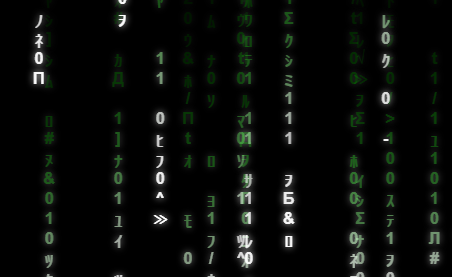
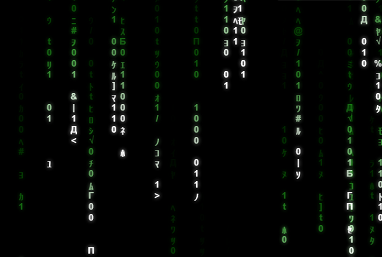
matrix screensaver color selection introduced

diff --git a/matrix/style.scss b/matrix/style.scss
@@ -1,34 +1,77 @@
+$green: #09ff00;
+$purple: #d400ff;
+$blue: #00e1ff;
+
 body {
     position: relative;
     background-color: #000000;
 }
 
 .rangeContainer {
-    // display: grid;
-    // grid-template-columns: 80px 150px;
-    // grid-template-rows: 1fr 1fr;
-    background-color: #ffffff30;
-    padding: 5px 20px;
-    display: flex;
+    display: grid;
+    grid-template-columns: 100px 1fr;
+    grid-template-rows: 1fr 1fr;
     align-items: center;
+    // justify-content: center;
+    background-color: #ffffff30;
+    padding: 5px 15px 5px 0;
+    // padding-right: 15px;
+    // display: flex;
+    // align-items: center;
 
     position: absolute;
     top: 10px;
     left: 10px;
     z-index: 10;
-    .paramName {
+    label {
+        font-size: 0.9rem;
         color: white;
-        margin-right: 10px;
+        // margin-right: 10px;
+        text-align: center;
     }
     .flex {
         display: flex;
-        align-items: center;
+        // align-items: center;
+        justify-content: center;
+        margin: 5px 0;
         img {
             width: 15px;
         }
-        input {
+        .color1, .color2, .color3 {
+            width: 10px;
+            height: 10px;
+
+            margin: 0 10px;
             // width: 100%;
+
+            position: relative;
+
+            border-radius: 2px;
+
+            &:hover {
+                box-shadow: 0px 0px 10px #ffffff;
+            }
+
+            &:active {
+                top: 2px;
+                box-shadow: 0px 0px 5px #ffffff;
+            }
         }
+
+        .color1 {
+            background-color: $green;
+            box-shadow: 0px 0px 5px $green;
+            outline: 2px solid #ffffffaa;
+        }
+        .color2 {
+            background-color: $purple;
+            box-shadow: 0px 0px 5px $purple;
+        }
+        .color3 {
+            background-color: $blue;
+            box-shadow: 0px 0px 5px $blue;
+        }
+        
     }
 }
 
@@ -55,26 +98,58 @@ body {
                 opacity: 0;
             }
         }
-        @keyframes color {
+        @keyframes color1 {
             0% {
                 color: #ffffff;
+                text-shadow: 0px 0px 7px #ffffff;
             }
             50% {
-                color: #09ff00;
+                color: $green;
+                text-shadow: 0px 0px 7px $green;
             }
             100% {
-                color: #09ff00;
+                color: $green;
+                text-shadow: 0px 0px 7px $green;
+            }
+        }
+        @keyframes color2 {
+            0% {
+                color: #ffffff;
+                text-shadow: 0px 0px 7px #ffffff;
+            }
+            50% {
+                color: $purple;
+                text-shadow: 0px 0px 7px $purple;
+            }
+            100% {
+                color: $purple;
+                text-shadow: 0px 0px 7px $purple;
+            }
+        }
+        @keyframes color3 {
+            0% {
+                color: #ffffff;
+                text-shadow: 0px 0px 7px #ffffff;
+            }
+            50% {
+                color: $blue;
+                text-shadow: 0px 0px 7px $blue;
+            }
+            100% {
+                color: $blue;
+                text-shadow: 0px 0px 7px $blue;
             }
         }
         
         color: #ffffff;
         height: 20px;
-        animation-name: fade, color;
+        // animation-name: fade, color1;
         animation-duration: 3s;
         opacity: 0;
         text-align: center;
 
         font-weight: bold;
+        // font-size: 1.2rem;
 
         text-shadow: 0px 0px 7px #ffffff;
         // animation-fill-mode: both;

diff --git a/matrix/style.css b/matrix/style.css
@@ -4,26 +4,58 @@ body {
 }
 
 .rangeContainer {
-  background-color: rgba(255, 255, 255, 0.1882352941);
-  padding: 5px 20px;
-  display: flex;
+  display: grid;
+  grid-template-columns: 100px 1fr;
+  grid-template-rows: 1fr 1fr;
   align-items: center;
+  background-color: rgba(255, 255, 255, 0.1882352941);
+  padding: 5px 15px 5px 0;
   position: absolute;
   top: 10px;
   left: 10px;
   z-index: 10;
 }
-.rangeContainer .paramName {
+.rangeContainer label {
+  font-size: 0.9rem;
   color: white;
-  margin-right: 10px;
+  text-align: center;
 }
 .rangeContainer .flex {
   display: flex;
-  align-items: center;
+  justify-content: center;
+  margin: 5px 0;
 }
 .rangeContainer .flex img {
   width: 15px;
 }
+.rangeContainer .flex .color1, .rangeContainer .flex .color2, .rangeContainer .flex .color3 {
+  width: 10px;
+  height: 10px;
+  margin: 0 10px;
+  position: relative;
+  border-radius: 2px;
+}
+.rangeContainer .flex .color1:hover, .rangeContainer .flex .color2:hover, .rangeContainer .flex .color3:hover {
+  box-shadow: 0px 0px 10px #ffffff;
+}
+.rangeContainer .flex .color1:active, .rangeContainer .flex .color2:active, .rangeContainer .flex .color3:active {
+  top: 2px;
+  box-shadow: 0px 0px 5px #ffffff;
+}
+.rangeContainer .flex .color1 {
+  background-color: #09ff00;
+  box-shadow: 0px 0px 5px #09ff00;
+  outline: 2px solid rgba(255, 255, 255, 0.6666666667);
+}
+.rangeContainer .flex .color2 {
+  background-color: #d400ff;
+  box-shadow: 0px 0px 5px #d400ff;
+}
+.rangeContainer .flex .color3 {
+  background-color: #00e1ff;
+  box-shadow: 0px 0px 5px #00e1ff;
+}
+
 .lettersDiv {
   width: 20px;
   display: flex;
@@ -34,7 +66,6 @@ body {
 .lettersDiv span {
   color: #ffffff;
   height: 20px;
-  animation-name: fade, color;
   animation-duration: 3s;
   opacity: 0;
   text-align: center;
@@ -49,14 +80,45 @@ body {
     opacity: 0;
   }
 }
-@keyframes color {
+@keyframes color1 {
   0% {
     color: #ffffff;
+    text-shadow: 0px 0px 7px #ffffff;
   }
   50% {
     color: #09ff00;
+    text-shadow: 0px 0px 7px #09ff00;
   }
   100% {
     color: #09ff00;
+    text-shadow: 0px 0px 7px #09ff00;
+  }
+}
+@keyframes color2 {
+  0% {
+    color: #ffffff;
+    text-shadow: 0px 0px 7px #ffffff;
+  }
+  50% {
+    color: #d400ff;
+    text-shadow: 0px 0px 7px #d400ff;
+  }
+  100% {
+    color: #d400ff;
+    text-shadow: 0px 0px 7px #d400ff;
+  }
+}
+@keyframes color3 {
+  0% {
+    color: #ffffff;
+    text-shadow: 0px 0px 7px #ffffff;
+  }
+  50% {
+    color: #00e1ff;
+    text-shadow: 0px 0px 7px #00e1ff;
+  }
+  100% {
+    color: #00e1ff;
+    text-shadow: 0px 0px 7px #00e1ff;
   }
 }/*# sourceMappingURL=style.css.map */

diff --git a/matrix/main.js b/matrix/main.js
@@ -1,8 +1,9 @@
-const body=document.querySelector('body')
-const amount=document.querySelector('input[name="amount"]');
+const body = document.querySelector('body')
+const amount = document.querySelector('input[name="amount"]');
+const colorButtons = document.querySelectorAll('.flex div');
 
 const iterateNum = window.innerHeight/20+2
-
+let colorNum = 'color1'
 let interval;
 
 fetch('./letters.json')
@@ -11,25 +12,23 @@ fetch('./letters.json')
 })
 .then((data)=>{
 
-    const letters=[...data.data]
+    const letters = [...data.data]
 
-    const animationStart=(sec)=>{
+    const animationStart = (sec, color)=>{
 
-        interval=setInterval(()=>{
+        interval = setInterval(()=>{
         
-            let spans=''
+            let spans = ''
             
             for(let i=0; i<=iterateNum; i++){
                 const rand = Math.ceil(100*Math.random())
                 const rand2 = Math.random()
-    
                 const mainText = rand2<0.2? 1:rand2<0.4? 0:letters[rand]? letters[rand]:''
-    
                 const alterText = letters[rand-25]? letters[rand-25]:'t'
     
                 spans +=
                 `<span
-                    style='animation-delay:${i/10}s'
+                    style='animation-delay:${i/10}s; animation-name: fade, ${color};'
                     ${rand%3==0 &&
                         `onanimationstart='((e)=>{setTimeout(()=>{e.target.innerText="`+alterText+`"},${rand2*1000})})(event)`
                     }
@@ -54,8 +53,22 @@ fetch('./letters.json')
 
     amount.onchange=(e)=>{
         clearInterval(interval)
-        animationStart(1000-900*e.target.value)
+        animationStart(1000-900*e.target.value, colorNum)
     }
 
-    animationStart(550)
+    colorButtons.forEach(btn=>{
+        btn.onclick=(e)=>{
+            colorButtons.forEach(btn2=>{
+                btn2.style.pointerEvents='auto'
+                btn2.style.outline='none'
+            })
+            e.target.style.pointerEvents='none'
+            e.target.style.outline='2px solid #ffffffaa'
+            colorNum = e.target.classList[0]
+            clearInterval(interval)
+            animationStart(1000-900*amount.value, colorNum)
+        }
+    })
+
+    animationStart(1000-900*amount.value, colorNum)
 })

diff --git a/matrix/index.html b/matrix/index.html
@@ -15,11 +15,20 @@
         
         <div class="rangeContainer">
 
-            <div class="paramName">Amount:</div>
+            <label>Amount:</label>
+
             <div class="flex">
                 <img src="../img/minus.svg"/>
                 <input type="range" min="0" max="1" value="0.5" step="0.1" name="amount"/>
                 <img src="../img/plus.svg"/>
+            </div>
+
+            <label>Color:</label>
+            
+            <div class="flex">
+                <div class="color1"></div>
+                <div class="color2"></div>
+                <div class="color3"></div>
             </div>
 
         </div>
